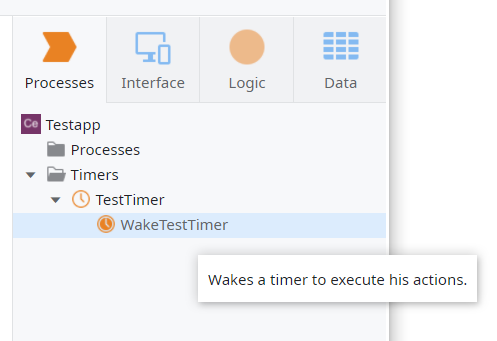
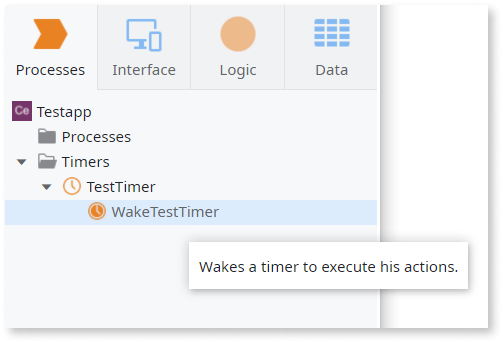
Fixed suffix filenames to follow our style guide. (#523)

diff --git a/src/develop/timers/timer-create-run.md b/src/develop/timers/timer-create-run.md
@@ -28,13 +28,13 @@ You can set the schedule of a Timer in one of the following ways:
 
 * **Setting the `Schedule` property of the Timer at design time**: You can define a recurrent schedule, such as daily or weekly, or define the Timer to run each time the module is published, for example to execute configurations or bootstrap data.
 
-    ![](images/timer-create-run-1.png)
+    ![Setting the schedule property of the Timer](images/timer-schedule-property-ss.png)
 
 * **Setting the Timer schedule at runtime in Service Center**: In cases when you need to customize the Timer schedule when deploying an application to another environment, there is no need to change the application. The effective Timer schedule is set in Service Center, which uses the default settings in every environment unless specifically modified.
 
 * **Implement logic that changes the Timer schedule at runtime**: Assign the `Schedule` runtime property of the Timer with a specific schedule within your logic. Make sure to use the [correct time format](../../ref/lang/auto/Class.Timer.final.md#runtime-properties).  
 
-    ![](images/timer-create-run-2.png)
+    ![Implement logic that changes Timer schedule](images/timer-implement-logic-ss.png)
 
 When you define a schedule for your Timer, the Timer will run at the predefined time.
 
@@ -65,9 +65,11 @@ The `Wake<Timer Name>` action does not receive any input parameters and does not
 To use the `Wake<Timer Name>` built-in action in your logic, do the following:
 
 1. In the Process tab, expand the Timer element.
+    ![Use wake timer action](images/wake-timer-ss.png)
+
 1. Drag the `Wake<Timer Name>` action and use it in your logic.
 
-![use wake timer action](images/wake-timer-ss.png)
+
 
 ### Run a Timer in Service Center
 
